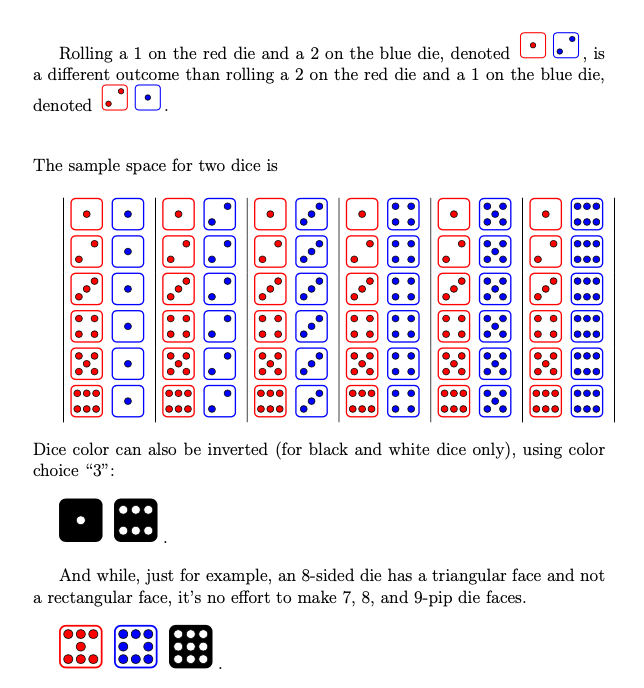
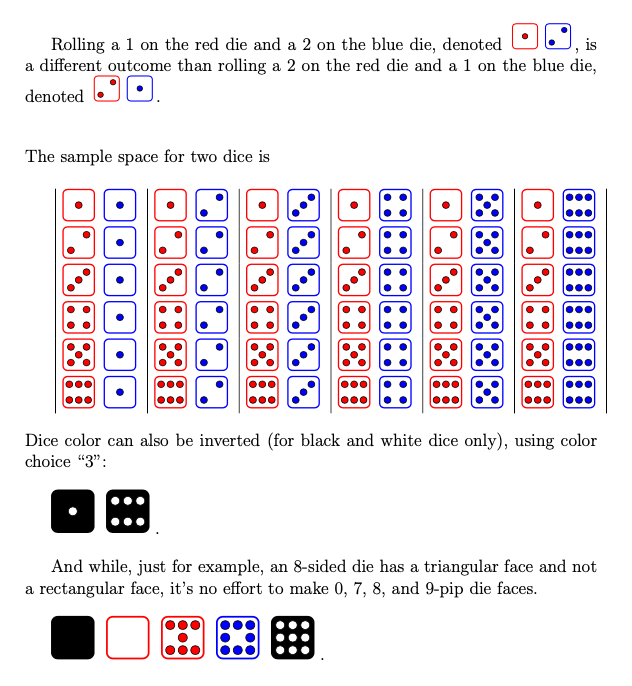
Updated files with zero-pip faces and edited documents.

Changed region(s): [[0.0301, 0.2143, 0.962, 0.9796], [0.0301, 0.0306, 0.962, 0.1837]]

diff --git a/dicemwe.tex b/dicemwe.tex
@@ -35,8 +35,8 @@ Rolling a 1 on the red die and a 2 on the blue die, denoted \scalebox{0.6}{\main
 
 \bigskip
 
-And while, just for example, an 8-sided die has a triangular face and not a rectangular face, it's no effort to make 7, 8, and 9-pip die faces.\\
+And while, just for example, an 8-sided die has a triangular face and not a rectangular face, it's no effort to make 0, 7, 8, and 9-pip die faces.\\
 
-\maindie{7}{1}\maindie{8}{2}\maindie{9}{3}.
+\maindie{0}{3}\maindie{0}{1}\maindie{7}{1}\maindie{8}{2}\maindie{9}{3}.
 
 \end{document}

diff --git a/tikzdice.tex b/tikzdice.tex
@@ -66,7 +66,9 @@
 					  \filldraw[fill=\pipcolor] (0.50,0.80) circle (\pipsize);
   					  \filldraw[fill=\pipcolor] (0.50,0.50) circle (\pipsize);
 					  \filldraw[fill=\pipcolor] (0.50,0.20) circle (\pipsize);}{}%	  
-					  
+    \ifthenelse{#1 = 0}{}{}%
+%    \ifthenelse{#1 = 0}{\draw[very thick, rounded corners, \diecolor, fill=\diecolor!20] (0,0) rectangle (1,1);}{}%  
+
 \end{tikzpicture}
 }
 
